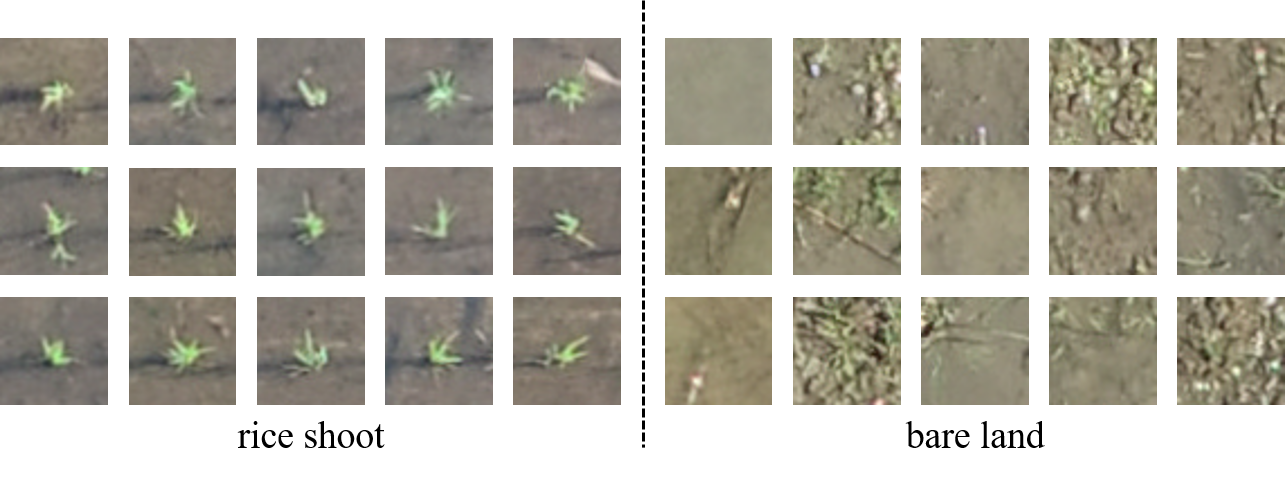
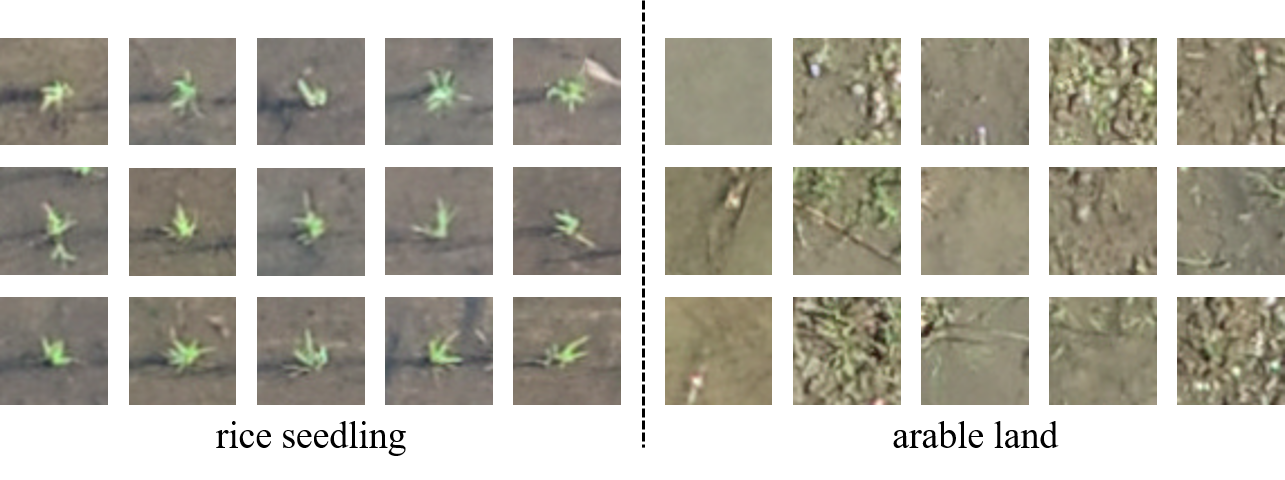
change the name from Rice Shoot to Rice Seedling

Changed region(s): [[0.6848, 0.875, 0.8405, 0.9375], [0.1556, 0.875, 0.3113, 0.9375]]

diff --git a/README.md b/README.md
@@ -1,11 +1,11 @@
-# Rice Shoot Counting Datasets
-A repository to open rice shoot counting dataset.  
+# Rice Seedling Datasets
+A repository to open rice seedling dataset.  
 
 ---
 
 ## Contents
   1. [Data Download Link (Google Drive)](#1-data-download-link-google-drive)
-  2. [Rice Shoot Dataset](#2-rice-shoot-dataset)
+  2. [Rice Seedling Dataset](#2-rice-seedling-dataset)
   3. [CNN Classification Model](#3-a-simple-example-of-cnn-classification-model)
   4. [Detection Demo Dataset](#4-detection-demo-dataset)
 
@@ -20,39 +20,39 @@ A repository to open rice shoot counting dataset.
 > These three links are the orthomosaic image of the field of number 80, TARI, with TWD97 / TM2 zone 121 (EPSG:3826) projection. The images were acquired in three consecutive growing stages.
 ---
 ### Trainning-Validation Dataset
-**[RiceShootClassification_2class.tgz (uncompressed size 426MB)](https://rebrand.ly/riceshootdataset_2class)**
-> This file includes two folders: riceshoot and bareland. Train-val and test datasets are all included.
+**[RiceSeedlingClassification_2class.tgz (uncompressed size 426MB)](https://rebrand.ly/riceseedlingclassification_2class)**
+> This file includes two folders: riceseedling and arableland. Train-val and test datasets are all included.
 ---
 ### Detection Demonstration Dataset
-**[RiceShootCouning.tgz (uncompressed size 48.5MB)](https://rebrand.ly/RiceshootcountingTgzE3355)**
+**[RiceSeedlingDetection.tgz (uncompressed size 48.5MB)](https://rebrand.ly/Riceseedlingdetection)**
 > This file contains 8 detection demo images and the corresponging PASCAL VOC xml format annotations.  
 ---
 **An overview of the region of different datasets**
-<img src="https://raw.githubusercontent.com/aipal-nchu/RiceShootCounting/main/images/Datasets_Area_Overview.png" width="768">  
+<img src="https://raw.githubusercontent.com/aipal-nchu/RiceSeedlingDataset/main/images/Datasets_Area_Overview.png" width="768">  
 > An overview of the field no. 80 (cyan bounding area) in TARI, Taichung. Image acquired on August 7, 2018. The green bounding area represents the area for training-validation dataset, and the red bounding area represents the area for object detection demonstration dataset.  
 
-## 2. Rice Shoot Dataset
+## 2. Rice Seedling Dataset
   This dataset contains two classes: 
-   - `rice shoot`
-   - `bare land`
+   - `rice seedling`
+   - `arable land`
 
 **An overview of image dataset**
-<img src="https://raw.githubusercontent.com/aipal-nchu/RiceShootCounting/main/images/dataset.png" width="768">
+<img src="https://raw.githubusercontent.com/aipal-nchu/RiceSeedlingDataset/main/images/dataset.png" width="768">
 
 
 
-**The number of images used for training, validation, and testing in the rice shoot dataset.**
+**The number of images used for training, validation, and testing in the rice seedling dataset.**
 | Class       | Training Samples | Validation Samples | Testing Samples | Total Samples |
 |:-:|:-:|:-:|:-:|:-:|
-| **Rice Shoot**  | 22,438 | 561   | 5,048 | 28,047 |
-| **Bare Land**   | 21,265 | 532   | 4,784 | 26,581 |
-| **Total**       | 43,703 | 1,093 | 9,832 | 54,628 |  
+| **Rice Seedling**  | 22,438 | 561   | 5,048 | 28,047 |
+| **Arable Land**    | 21,265 | 532   | 4,784 | 26,581 |
+| **Total**          | 43,703 | 1,093 | 9,832 | 54,628 |  
 
 ## 3. A Simple Example of CNN Classification Model
-**The architecture of the proposed network for rice shoot classification**
-<img src="https://raw.githubusercontent.com/aipal-nchu/RiceShootCounting/main/images/Network Architechture-2class.png" width="768">
+**The architecture of the proposed network for rice seedling classification**
+<img src="https://raw.githubusercontent.com/aipal-nchu/RiceSeedlingDataset/main/images/Network Architechture-2class.png" width="768">
 
-In the article, we proposed a simple CNN architecture which adopted the stacked convolution layer from VGG-16. The pre-trained model is provided in the [**model**](https://github.com/aipal-nchu/RiceShootCounting/tree/main/model) directory.  
+In the article, we proposed a simple CNN architecture which adopted the stacked convolution layer from VGG-16. The pre-trained model is provided in the [**model**](https://github.com/aipal-nchu/RiceSeedlingDataset/tree/main/model) directory.  
   
 The environments for the experiments are:
 - host
@@ -78,19 +78,19 @@ This dataset is used for patch-based object-detection scenario.
 - PASCAL VOC xml format annotation
 
 **An overview of 8 detection demo images**
-<img src="https://raw.githubusercontent.com/aipal-nchu/RiceShootCounting/main/images/DemoClip.png" width="768">
+<img src="https://raw.githubusercontent.com/aipal-nchu/RiceSeedlingDataset/main/images/DemoClip.png" width="768">
 
 
 | Image No. | Raw Image | Prediction Image | Ground Truth Image|
 |:-:|:-:|:-:|:-:|
-|1|<img src="https://raw.githubusercontent.com/aipal-nchu/RiceShootCounting/main/images/1.jpg" width="300">|<img src="https://raw.githubusercontent.com/aipal-nchu/RiceShootCounting/main/images/1_bbox.jpg" width="300">|<img src="https://raw.githubusercontent.com/aipal-nchu/RiceShootCounting/main/images/1_GT.jpg" width="300">|
-|2|<img src="https://raw.githubusercontent.com/aipal-nchu/RiceShootCounting/main/images/2.jpg" width="300">|<img src="https://raw.githubusercontent.com/aipal-nchu/RiceShootCounting/main/images/2_bbox.jpg" width="300">|<img src="https://raw.githubusercontent.com/aipal-nchu/RiceShootCounting/main/images/2_GT.jpg" width="300">|
-|3|<img src="https://raw.githubusercontent.com/aipal-nchu/RiceShootCounting/main/images/3.jpg" width="300">|<img src="https://raw.githubusercontent.com/aipal-nchu/RiceShootCounting/main/images/3_bbox.jpg" width="300">|<img src="https://raw.githubusercontent.com/aipal-nchu/RiceShootCounting/main/images/3_GT.jpg" width="300">|
-|4|<img src="https://raw.githubusercontent.com/aipal-nchu/RiceShootCounting/main/images/4.jpg" width="300">|<img src="https://raw.githubusercontent.com/aipal-nchu/RiceShootCounting/main/images/4_bbox.jpg" width="300">|<img src="https://raw.githubusercontent.com/aipal-nchu/RiceShootCounting/main/images/4_GT.jpg" width="300">|
-|5|<img src="https://raw.githubusercontent.com/aipal-nchu/RiceShootCounting/main/images/5.jpg" width="300">|<img src="https://raw.githubusercontent.com/aipal-nchu/RiceShootCounting/main/images/5_bbox.jpg" width="300">|<img src="https://raw.githubusercontent.com/aipal-nchu/RiceShootCounting/main/images/5_GT.jpg" width="300">|
-|6|<img src="https://raw.githubusercontent.com/aipal-nchu/RiceShootCounting/main/images/6.jpg" width="300">|<img src="https://raw.githubusercontent.com/aipal-nchu/RiceShootCounting/main/images/6_bbox.jpg" width="300">|<img src="https://raw.githubusercontent.com/aipal-nchu/RiceShootCounting/main/images/6_GT.jpg" width="300">|
-|7|<img src="https://raw.githubusercontent.com/aipal-nchu/RiceShootCounting/main/images/7.jpg" width="300">|<img src="https://raw.githubusercontent.com/aipal-nchu/RiceShootCounting/main/images/7_bbox.jpg" width="300">|<img src="https://raw.githubusercontent.com/aipal-nchu/RiceShootCounting/main/images/7_GT.jpg" width="300">|
-|8|<img src="https://raw.githubusercontent.com/aipal-nchu/RiceShootCounting/main/images/8.jpg" width="300">|<img src="https://raw.githubusercontent.com/aipal-nchu/RiceShootCounting/main/images/8_bbox.jpg" width="300">|<img src="https://raw.githubusercontent.com/aipal-nchu/RiceShootCounting/main/images/8_GT.jpg" width="300">|
+|1|<img src="https://raw.githubusercontent.com/aipal-nchu/RiceSeedlingDataset/main/images/1.jpg" width="300">|<img src="https://raw.githubusercontent.com/aipal-nchu/RiceSeedlingDataset/main/images/1_bbox.jpg" width="300">|<img src="https://raw.githubusercontent.com/aipal-nchu/RiceSeedlingDataset/main/images/1_GT.jpg" width="300">|
+|2|<img src="https://raw.githubusercontent.com/aipal-nchu/RiceSeedlingDataset/main/images/2.jpg" width="300">|<img src="https://raw.githubusercontent.com/aipal-nchu/RiceSeedlingDataset/main/images/2_bbox.jpg" width="300">|<img src="https://raw.githubusercontent.com/aipal-nchu/RiceSeedlingDataset/main/images/2_GT.jpg" width="300">|
+|3|<img src="https://raw.githubusercontent.com/aipal-nchu/RiceSeedlingDataset/main/images/3.jpg" width="300">|<img src="https://raw.githubusercontent.com/aipal-nchu/RiceSeedlingDataset/main/images/3_bbox.jpg" width="300">|<img src="https://raw.githubusercontent.com/aipal-nchu/RiceSeedlingDataset/main/images/3_GT.jpg" width="300">|
+|4|<img src="https://raw.githubusercontent.com/aipal-nchu/RiceSeedlingDataset/main/images/4.jpg" width="300">|<img src="https://raw.githubusercontent.com/aipal-nchu/RiceSeedlingDataset/main/images/4_bbox.jpg" width="300">|<img src="https://raw.githubusercontent.com/aipal-nchu/RiceSeedlingDataset/main/images/4_GT.jpg" width="300">|
+|5|<img src="https://raw.githubusercontent.com/aipal-nchu/RiceSeedlingDataset/main/images/5.jpg" width="300">|<img src="https://raw.githubusercontent.com/aipal-nchu/RiceSeedlingDataset/main/images/5_bbox.jpg" width="300">|<img src="https://raw.githubusercontent.com/aipal-nchu/RiceSeedlingDataset/main/images/5_GT.jpg" width="300">|
+|6|<img src="https://raw.githubusercontent.com/aipal-nchu/RiceSeedlingDataset/main/images/6.jpg" width="300">|<img src="https://raw.githubusercontent.com/aipal-nchu/RiceSeedlingDataset/main/images/6_bbox.jpg" width="300">|<img src="https://raw.githubusercontent.com/aipal-nchu/RiceSeedlingDataset/main/images/6_GT.jpg" width="300">|
+|7|<img src="https://raw.githubusercontent.com/aipal-nchu/RiceSeedlingDataset/main/images/7.jpg" width="300">|<img src="https://raw.githubusercontent.com/aipal-nchu/RiceSeedlingDataset/main/images/7_bbox.jpg" width="300">|<img src="https://raw.githubusercontent.com/aipal-nchu/RiceSeedlingDataset/main/images/7_GT.jpg" width="300">|
+|8|<img src="https://raw.githubusercontent.com/aipal-nchu/RiceSeedlingDataset/main/images/8.jpg" width="300">|<img src="https://raw.githubusercontent.com/aipal-nchu/RiceSeedlingDataset/main/images/8_bbox.jpg" width="300">|<img src="https://raw.githubusercontent.com/aipal-nchu/RiceSeedlingDataset/main/images/8_GT.jpg" width="300">|
 
 **Comparison of Detection Result and Ground Truth**
 | Image No. | 1 | 2 | 3 | 4 | 5 | 6 | 7 | 8 |

diff --git a/Data_Preprocessing.md b/Data_Preprocessing.md
@@ -4,7 +4,7 @@ This page presents the detail of data preprocessing
 ---
 
 **The workflow of semi-auto annotation**
-<img src="https://raw.githubusercontent.com/aipal-nchu/RiceShootCounting/main/images/Preprocessing-2.png" width="768">
+<img src="https://raw.githubusercontent.com/aipal-nchu/RiceSeedlingDataset/main/images/Preprocessing-2.png" width="768">
 
 
 
